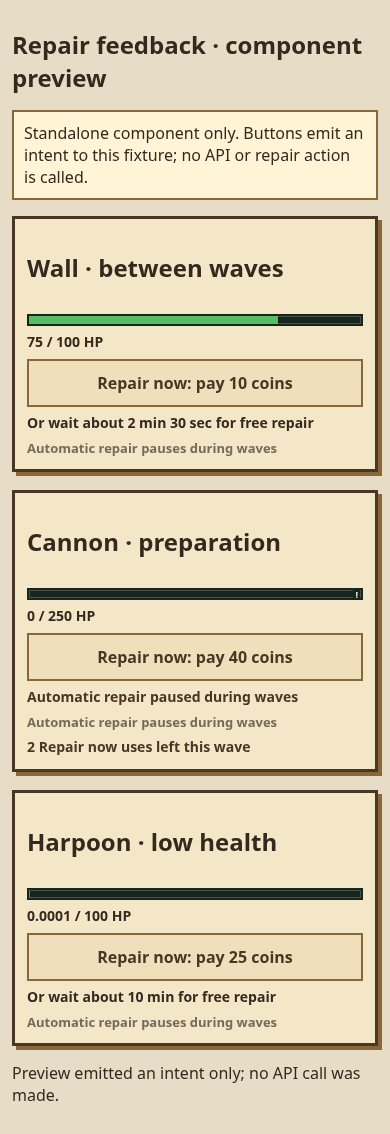
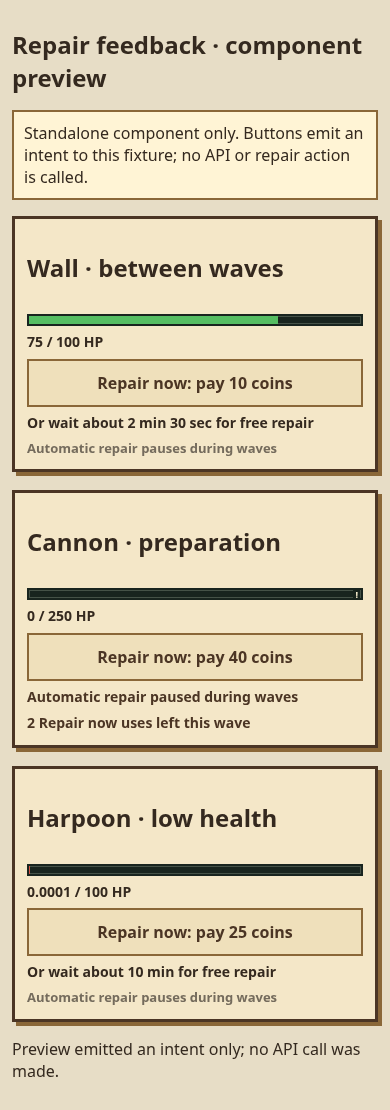
fix: avoid repeated paused repair copy

diff --git a/frontend/src/island/structure-recovery-model.js b/frontend/src/island/structure-recovery-model.js
@@ -118,7 +118,7 @@ function buildStructureRecoveryView(state, structure, options = {}) {
     repairLabel: canQuote ? `Repair now: pay ${fixedPrice} coins` : null,
     quotedPrice: fixedPrice,
     freeRepairLabel,
-    helperLabel: 'Automatic repair pauses during waves',
+    helperLabel: reserved ? null : 'Automatic repair pauses during waves',
     automaticRepairPaused: reserved,
     statusLabel: reserved ? 'Automatic repair paused during waves' : null,
     remainingPaidUses: remainingUses,

diff --git a/frontend/tests/island/structure-recovery-model.test.js b/frontend/tests/island/structure-recovery-model.test.js
@@ -114,6 +114,7 @@ describe('structure recovery presentation', () => {
       automaticRepairPaused: true,
       freeRepairLabel: null,
       statusLabel: 'Automatic repair paused during waves',
+      helperLabel: null,
       remainingUsesLabel: '2 Repair now uses left this wave',
     });
   });

diff --git a/docs/STATUS.md b/docs/STATUS.md
@@ -911,3 +911,5 @@ Ianno / 16 Nov 2026 — Reconciled T54 planning with main eba53be0 (D060 extra t
 Ianno / 2026-11-16 — T59: Repair cards and health bars started on `feat/t59-repair-feedback` from main `a09787c0`, following Ianno’s confirmation and authorization after Franz (@frcola) merged PR #135. Responsible teammate: Ianno (@Iannomh123456); implementation model: gpt-6-luna, high reasoning, with stronger-session orchestration and review. Tracking: issue #125; separate draft PR follows. Isolated parallel work is coordinated across T55 persistence, T58 Captain/research and T59 presentation. Integration depends on the approved T54 contracts and required preceding implementations. No implementation verification or release is claimed. No live migration, flag activation or deployment is authorized; human review precedes any merge.
 
 Ianno / 2026-11-16 — T59 isolated presentation milestone on `feat/t59-repair-feedback`. Added a pure recovery display model for the canonical T54/T55 fields, plus a standalone accessible DOM health bar and repair-feedback card. Damaged supported kinds use a dark border and green/gold/red proportional fill; zero HP shows an empty bar and `!`; tiny positive HP keeps its exact meter value and a one-pixel visible fill. Between-wave feedback pairs the server's fixed price with its ETA; reserved waves show paused state and the shared remaining uses. Action buttons emit intent only and do not patch HP or call a payment endpoint. Component-only desktop and 390px phone previews are saved as `frontend/captures/t59-recovery-component-desktop.png` and `frontend/captures/t59-recovery-component-phone.png`; both were inspected. Verification: focused model suite 23/23; repository text lint 4,320 candidates in 472 files, 0 errors and 8 report-only findings; production build and spoiler guard passed; standalone Chromium component check passed. The full frontend Vitest run completed with 3,580/3,584 passing and 4 failures: the text-lint assertion captured the pre-fix T59 copy (the current standalone linter now passes), Harbor layout at 1280×720, weather at 375×812, and Nearby-game phone=false each hit a 20-second timeout. T59 remains isolated: the island cards, paid API, authoritative wave renderer and two-client/reconnect behavior await T55–T57 integration; no live API, payment, simulation, player-doc, migration, activation or deployment change is claimed.
+
+Ianno / 2026-11-16 — T59 follow-up: in reserved-wave cards, suppress the between-wave helper copy so only “Automatic repair paused during waves” is shown; between-wave cards retain the helper. Focused model tests passed 23/23, standalone desktop/phone component check passed and refreshed both screenshots, and text lint passed with 0 errors and 8 unrelated report-only findings. No API/game-card/simulation integration was added; T55–T57 integration evidence is still pending.
